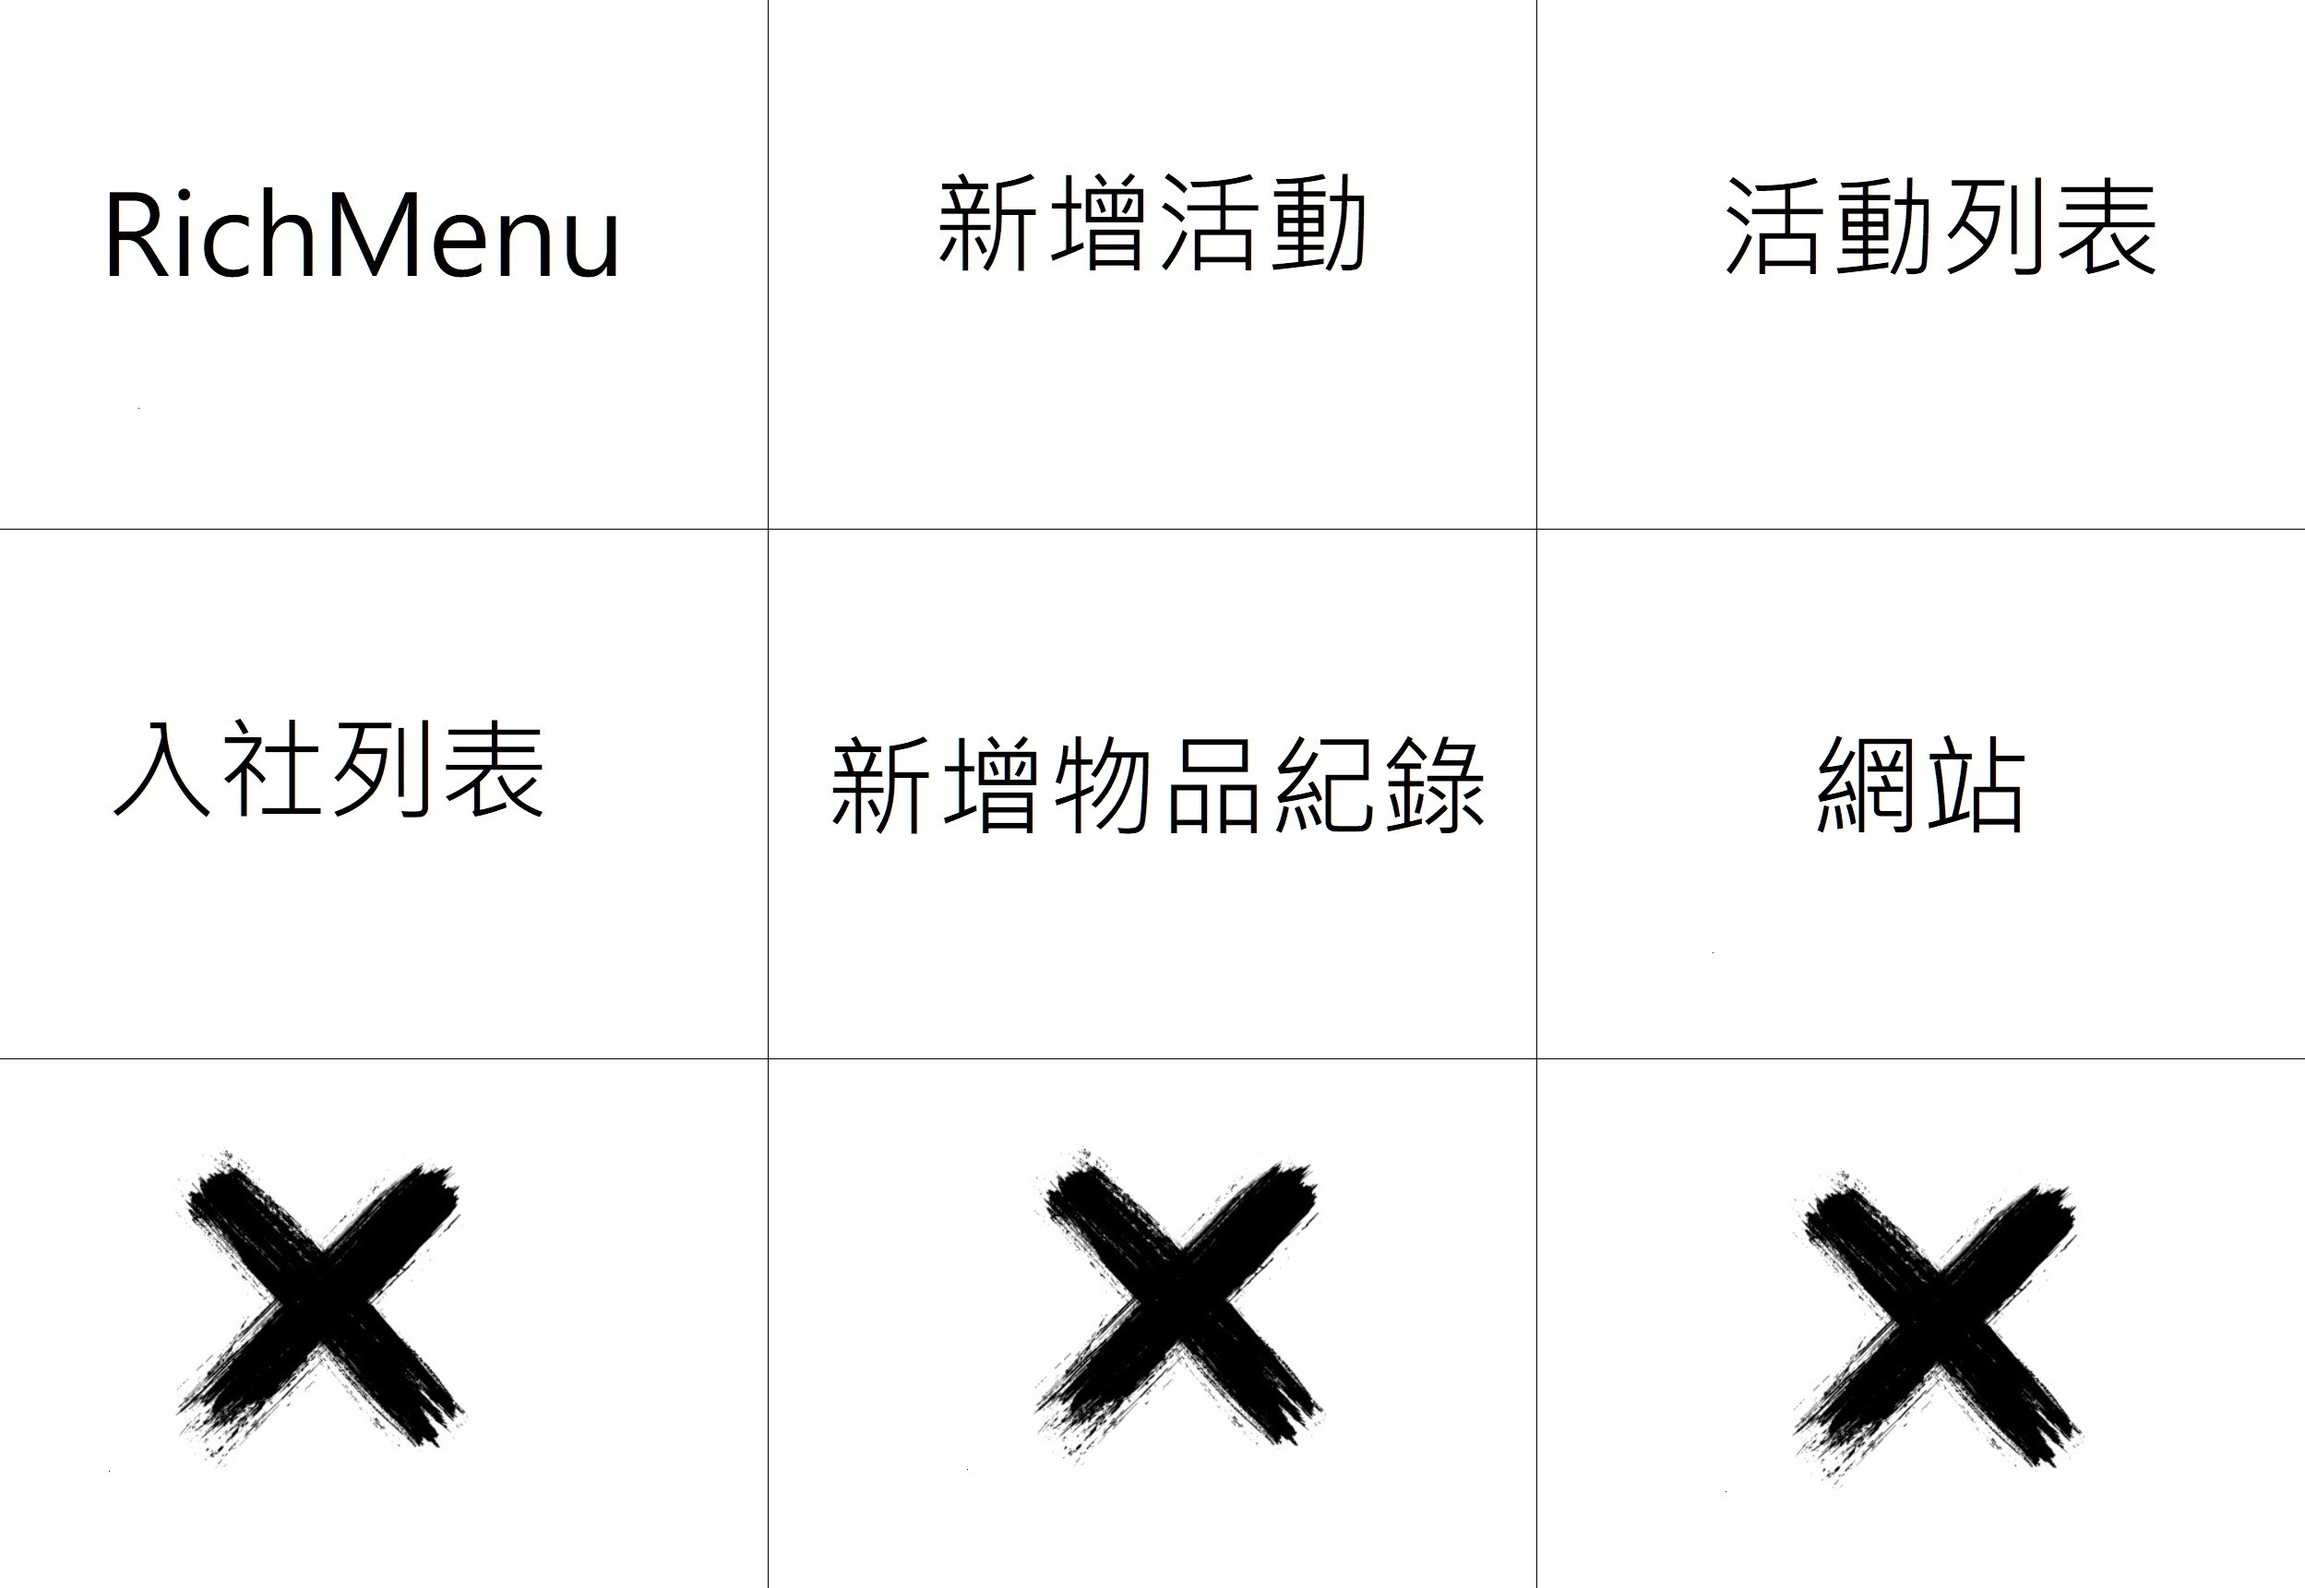
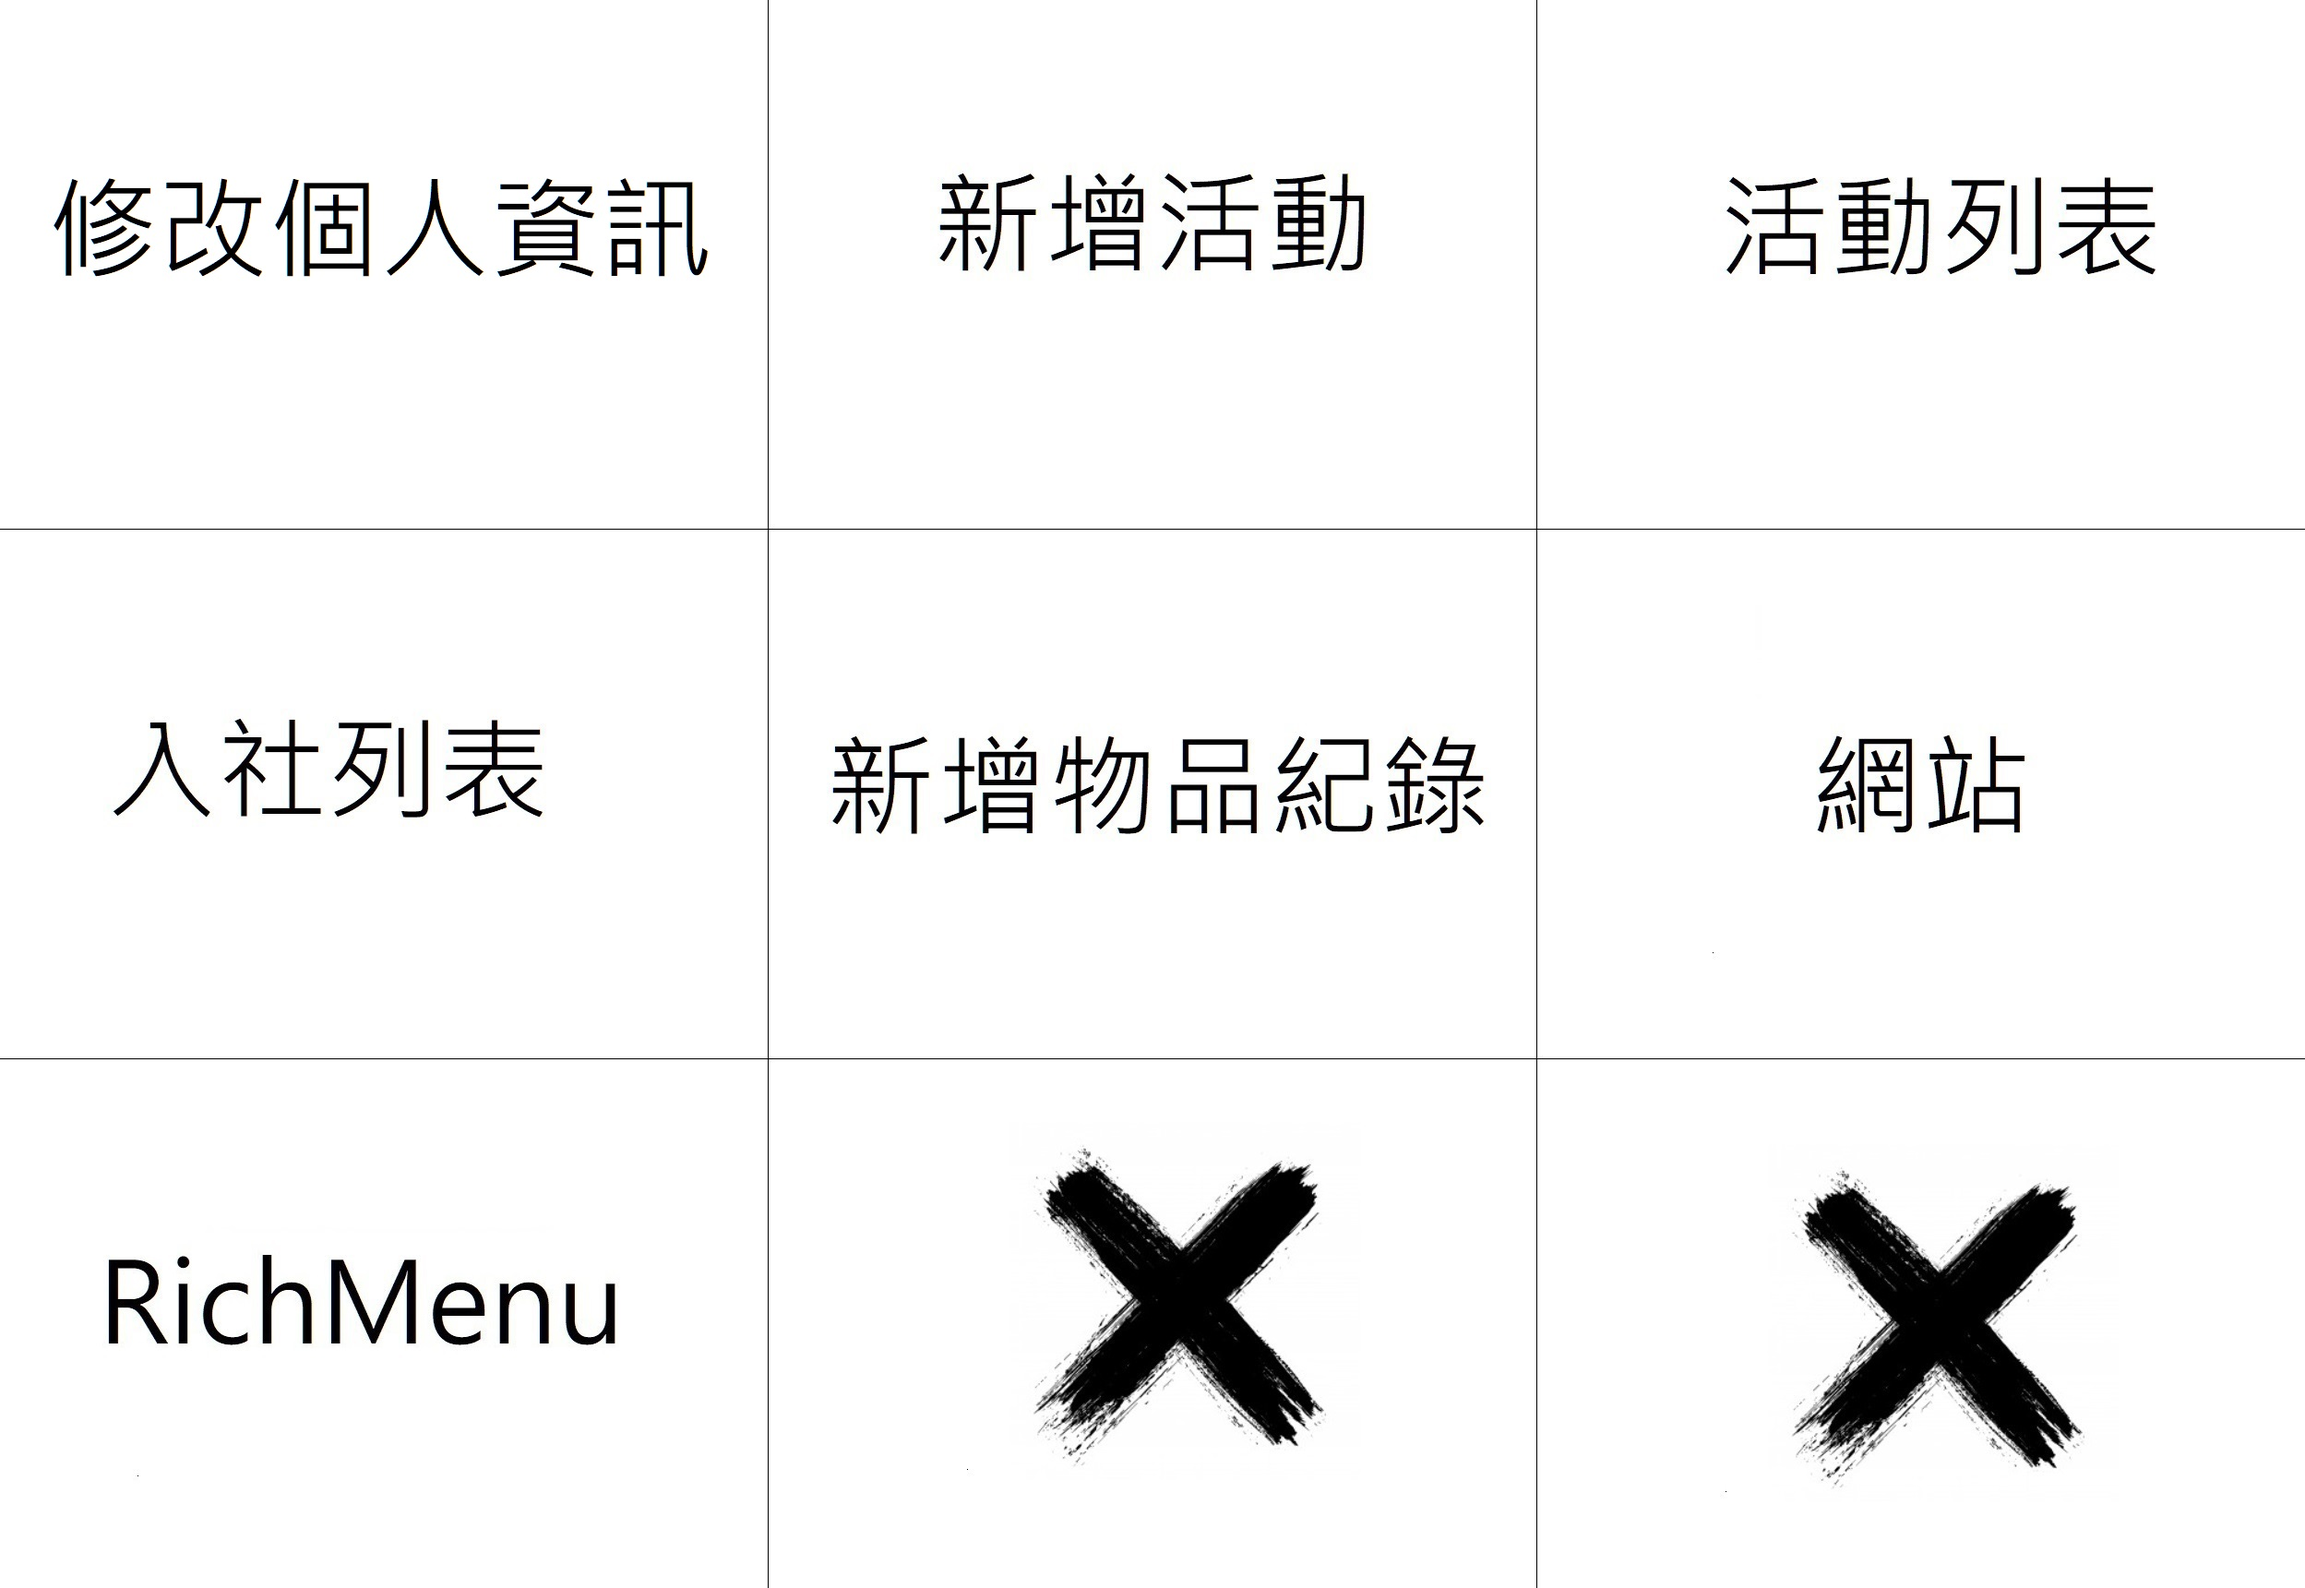
[新增] linebot 修改個人資訊

Changed region(s): [[0.0312, 0.7391, 0.281, 0.9239], [0.0, 0.0924, 0.3122, 0.1848]]

diff --git a/src/logic/club/update_member.go b/src/logic/club/update_member.go
@@ -1,0 +1,240 @@
+package club
+
+import (
+	"heroku-line-bot/src/logic/club/domain"
+	dbModel "heroku-line-bot/src/model/database"
+	"heroku-line-bot/src/pkg/service/linebot"
+	linebotDomain "heroku-line-bot/src/pkg/service/linebot/domain"
+	"heroku-line-bot/src/pkg/util"
+	errUtil "heroku-line-bot/src/pkg/util/error"
+	"heroku-line-bot/src/repo/database"
+	memberDb "heroku-line-bot/src/repo/database/database/clubdb/member"
+)
+
+type UpdateMember struct {
+	context domain.ICmdHandlerContext `json:"-"`
+	Name    *string                   `json:"name"`
+}
+
+func NewUpdateMember() *UpdateMember {
+	return &UpdateMember{}
+}
+
+func (b *UpdateMember) Init(context domain.ICmdHandlerContext) (resultErrInfo errUtil.IError) {
+	b.context = context
+
+	if errInfo := b.LoadName(); errInfo != nil {
+		resultErrInfo = errUtil.Append(resultErrInfo, errInfo)
+		if errInfo.IsError() {
+			return
+		}
+	}
+
+	return
+}
+
+func (b *UpdateMember) GetRequireAttr() (requireAttr string, warnMessage interface{}, resultErrInfo errUtil.IError) {
+	return
+}
+
+func (b *UpdateMember) GetRequireAttrInfo(rawAttr string) (attrNameText string, valueText string, isNotRequireChecking bool) {
+	switch rawAttr {
+	case "name":
+		attrNameText = "暱稱"
+		if b.Name == nil {
+			if errInfo := b.LoadName(); errInfo != nil {
+				if errInfo.IsError() {
+					valueText = ""
+					return
+				}
+			}
+		}
+		valueText = *b.Name
+	}
+	return
+}
+
+func (b *UpdateMember) GetInputTemplate(attr string) (messages interface{}) {
+	switch attr {
+	}
+	return
+}
+
+func (b *UpdateMember) LoadRequireInputTextParam(attr, text string) (resultErrInfo errUtil.IError) {
+	switch attr {
+	case "name":
+		b.Name = util.GetStringP(text)
+	default:
+	}
+	return nil
+}
+
+func (b *UpdateMember) Do(text string) (resultErrInfo errUtil.IError) {
+	if b.Name == nil {
+		if errInfo := b.LoadName(); errInfo != nil {
+			resultErrInfo = errUtil.Append(resultErrInfo, errInfo)
+			if errInfo.IsError() {
+				return
+			}
+		}
+	}
+
+	if b.Name == nil {
+		replyMessges := []interface{}{
+			linebot.GetTextMessage("您尚未註冊，請封鎖本帳號後再次加入"),
+		}
+		if err := b.context.Reply(replyMessges); err != nil {
+			resultErrInfo = errUtil.NewError(err)
+			return
+		}
+
+		if err := b.context.DeleteParam(); err != nil {
+			resultErrInfo = errUtil.NewError(err)
+			return
+		}
+		return
+	}
+
+	name := *b.Name
+	if b.context.IsConfirmed() {
+		db, transaction, err := database.Club.Begin()
+		if err != nil {
+			errInfo := errUtil.NewError(err)
+			resultErrInfo = errUtil.Append(resultErrInfo, errInfo)
+			return
+		}
+		defer func() {
+			if errInfo := database.CommitTransaction(transaction, resultErrInfo); errInfo != nil {
+				resultErrInfo = errUtil.Append(resultErrInfo, errInfo)
+			}
+		}()
+
+		lineID := b.context.GetUserID()
+		arg := dbModel.ReqsClubMember{
+			LineID: &lineID,
+		}
+		fields := map[string]interface{}{
+			"name": b.Name,
+		}
+		if err := db.Member.Update(arg, fields); err != nil {
+			resultErrInfo = errUtil.NewError(err)
+			return
+		}
+
+		replyMessges := []interface{}{
+			linebot.GetTextMessage("完成"),
+		}
+		if err := b.context.Reply(replyMessges); err != nil {
+			resultErrInfo = errUtil.NewError(err)
+			return
+		}
+
+		if err := b.context.DeleteParam(); err != nil {
+			resultErrInfo = errUtil.NewError(err)
+			return
+		}
+
+		return
+	}
+
+	contents := make([]interface{}, 0)
+
+	{
+		size := linebotDomain.MD_FLEX_MESSAGE_SIZE
+		js, errInfo := NewSignal().
+			GetRequireInputMode("name").
+			GetSignal()
+		if errInfo != nil {
+			resultErrInfo = errUtil.Append(resultErrInfo, errInfo)
+			if resultErrInfo.IsError() {
+				return
+			}
+		}
+
+		action := linebot.GetPostBackAction(
+			"修改",
+			js,
+		)
+		contents = append(contents,
+			GetKeyValueEditComponent(
+				"暱稱",
+				name,
+				&domain.KeyValueEditComponentOption{
+					Action: action,
+					SizeP:  &size,
+				},
+			),
+		)
+	}
+
+	{
+		cancelSignlJs, errInfo := NewSignal().
+			GetCancelMode().
+			GetSignal()
+		if errInfo != nil {
+			resultErrInfo = errUtil.Append(resultErrInfo, errInfo)
+			return
+		}
+		comfirmSignlJs, errInfo := NewSignal().
+			GetConfirmMode().
+			GetSignal()
+		if errInfo != nil {
+			resultErrInfo = errUtil.Append(resultErrInfo, errInfo)
+			return
+		}
+		contents = append(contents,
+			GetConfirmComponent(
+				linebot.GetPostBackAction(
+					"取消",
+					cancelSignlJs,
+				),
+				linebot.GetPostBackAction(
+					"確認",
+					comfirmSignlJs,
+				),
+			),
+		)
+	}
+
+	replyMessges := []interface{}{
+		linebot.GetFlexMessage(
+			"修改基本資訊",
+			linebot.GetFlexMessageBubbleContent(
+				linebot.GetFlexMessageBoxComponent(
+					linebotDomain.VERTICAL_MESSAGE_LAYOUT,
+					nil,
+					contents...,
+				),
+				nil,
+			),
+		),
+	}
+	if err := b.context.Reply(replyMessges); err != nil {
+		resultErrInfo = errUtil.NewError(err)
+		return
+	}
+
+	return
+}
+
+func (b *UpdateMember) LoadName() (resultErrInfo errUtil.IError) {
+	lineID := b.context.GetUserID()
+	dbDatas, err := database.Club.Member.Select(
+		dbModel.ReqsClubMember{
+			LineID: &lineID,
+		},
+		memberDb.COLUMN_Name,
+	)
+	if err != nil {
+		errInfo := errUtil.NewError(err)
+		resultErrInfo = errUtil.Append(resultErrInfo, errInfo)
+		return
+	} else if len(dbDatas) == 0 {
+		return
+	}
+
+	dbData := dbDatas[0]
+	b.Name = &dbData.Name
+
+	return
+}

diff --git a/src/logic/club/richMenu.go b/src/logic/club/richMenu.go
@@ -390,8 +390,8 @@ func (b *richMenu) createRoleRichMenu(role domain.ClubRole) *linebotReqs.CreateR
 			name,
 			2498, 1147,
 			2, 3,
+			linebot.GetMessageAction(string(domain.UPDATE_MEMBER_INFO_TEXT_CMD)),
 			linebot.GetMessageAction("社長好強"),
-			linebot.GetMessageAction("經理好棒"),
 			linebot.GetMessageAction(string(domain.GET_ACTIVITIES_TEXT_CMD)),
 		)
 	case domain.CADRE_CLUB_ROLE:
@@ -399,7 +399,7 @@ func (b *richMenu) createRoleRichMenu(role domain.ClubRole) *linebotReqs.CreateR
 			name,
 			2498, 1721,
 			3, 3,
-			linebot.GetMessageAction("社長好強"),
+			linebot.GetMessageAction(string(domain.UPDATE_MEMBER_INFO_TEXT_CMD)),
 			linebot.GetMessageAction(string(domain.NEW_ACTIVITY_TEXT_CMD)),
 			linebot.GetMessageAction(string(domain.GET_ACTIVITIES_TEXT_CMD)),
 		)
@@ -408,12 +408,13 @@ func (b *richMenu) createRoleRichMenu(role domain.ClubRole) *linebotReqs.CreateR
 			name,
 			2498, 1721,
 			3, 3,
-			linebot.GetMessageAction(string(domain.RICH_MENU_TEXT_CMD)),
+			linebot.GetMessageAction(string(domain.UPDATE_MEMBER_INFO_TEXT_CMD)),
 			linebot.GetMessageAction(string(domain.NEW_ACTIVITY_TEXT_CMD)),
 			linebot.GetMessageAction(string(domain.GET_ACTIVITIES_TEXT_CMD)),
 			linebot.GetMessageAction(string(domain.GET_CONFIRM_REGISTER_TEXT_CMD)),
 			linebot.GetMessageAction(string(domain.NEW_LOGISTIC_TEXT_CMD)),
 			linebot.GetUriAction(liffUrl),
+			linebot.GetMessageAction(string(domain.RICH_MENU_TEXT_CMD)),
 		)
 	default:
 		return nil

diff --git a/src/logic/club/common.go b/src/logic/club/common.go
@@ -2,6 +2,7 @@ package club
 
 import (
 	"heroku-line-bot/bootstrap"
+	"heroku-line-bot/src/logger"
 	"heroku-line-bot/src/logic/club/domain"
 	clublinebotDomain "heroku-line-bot/src/logic/clublinebot/domain"
 	"heroku-line-bot/src/pkg/service/linebot"
@@ -199,6 +200,8 @@ func getCmdHandler(cmd domain.TextCmd, context clublinebotDomain.IContext) (doma
 		logicHandler = &richMenu{}
 	case domain.NEW_LOGISTIC_TEXT_CMD:
 		logicHandler = &NewLogistic{}
+	case domain.UPDATE_MEMBER_INFO_TEXT_CMD:
+		logicHandler = NewUpdateMember()
 	default:
 		return nil, nil
 	}
@@ -212,7 +215,11 @@ func getCmdHandler(cmd domain.TextCmd, context clublinebotDomain.IContext) (doma
 		InputParam: *NewInputParam(logicHandler),
 	}
 	if errInfo := logicHandler.Init(result); errInfo != nil {
-		return nil, errInfo
+		if errInfo.IsError() {
+			return nil, errInfo
+		}
+
+		logger.Log("LINE", errInfo)
 	}
 
 	return result, nil

diff --git a/src/logic/club/domain/textCmdEnum.go b/src/logic/club/domain/textCmdEnum.go
@@ -11,6 +11,7 @@ const (
 	SUBMIT_ACTIVITY_TEXT_CMD      TextCmd = "提交活動"
 	RICH_MENU_TEXT_CMD            TextCmd = "richmenu"
 	NEW_LOGISTIC_TEXT_CMD         TextCmd = "新增品項紀錄"
+	UPDATE_MEMBER_INFO_TEXT_CMD   TextCmd = "修改個人資訊"
 )
 
 type DateTimeCmd string
